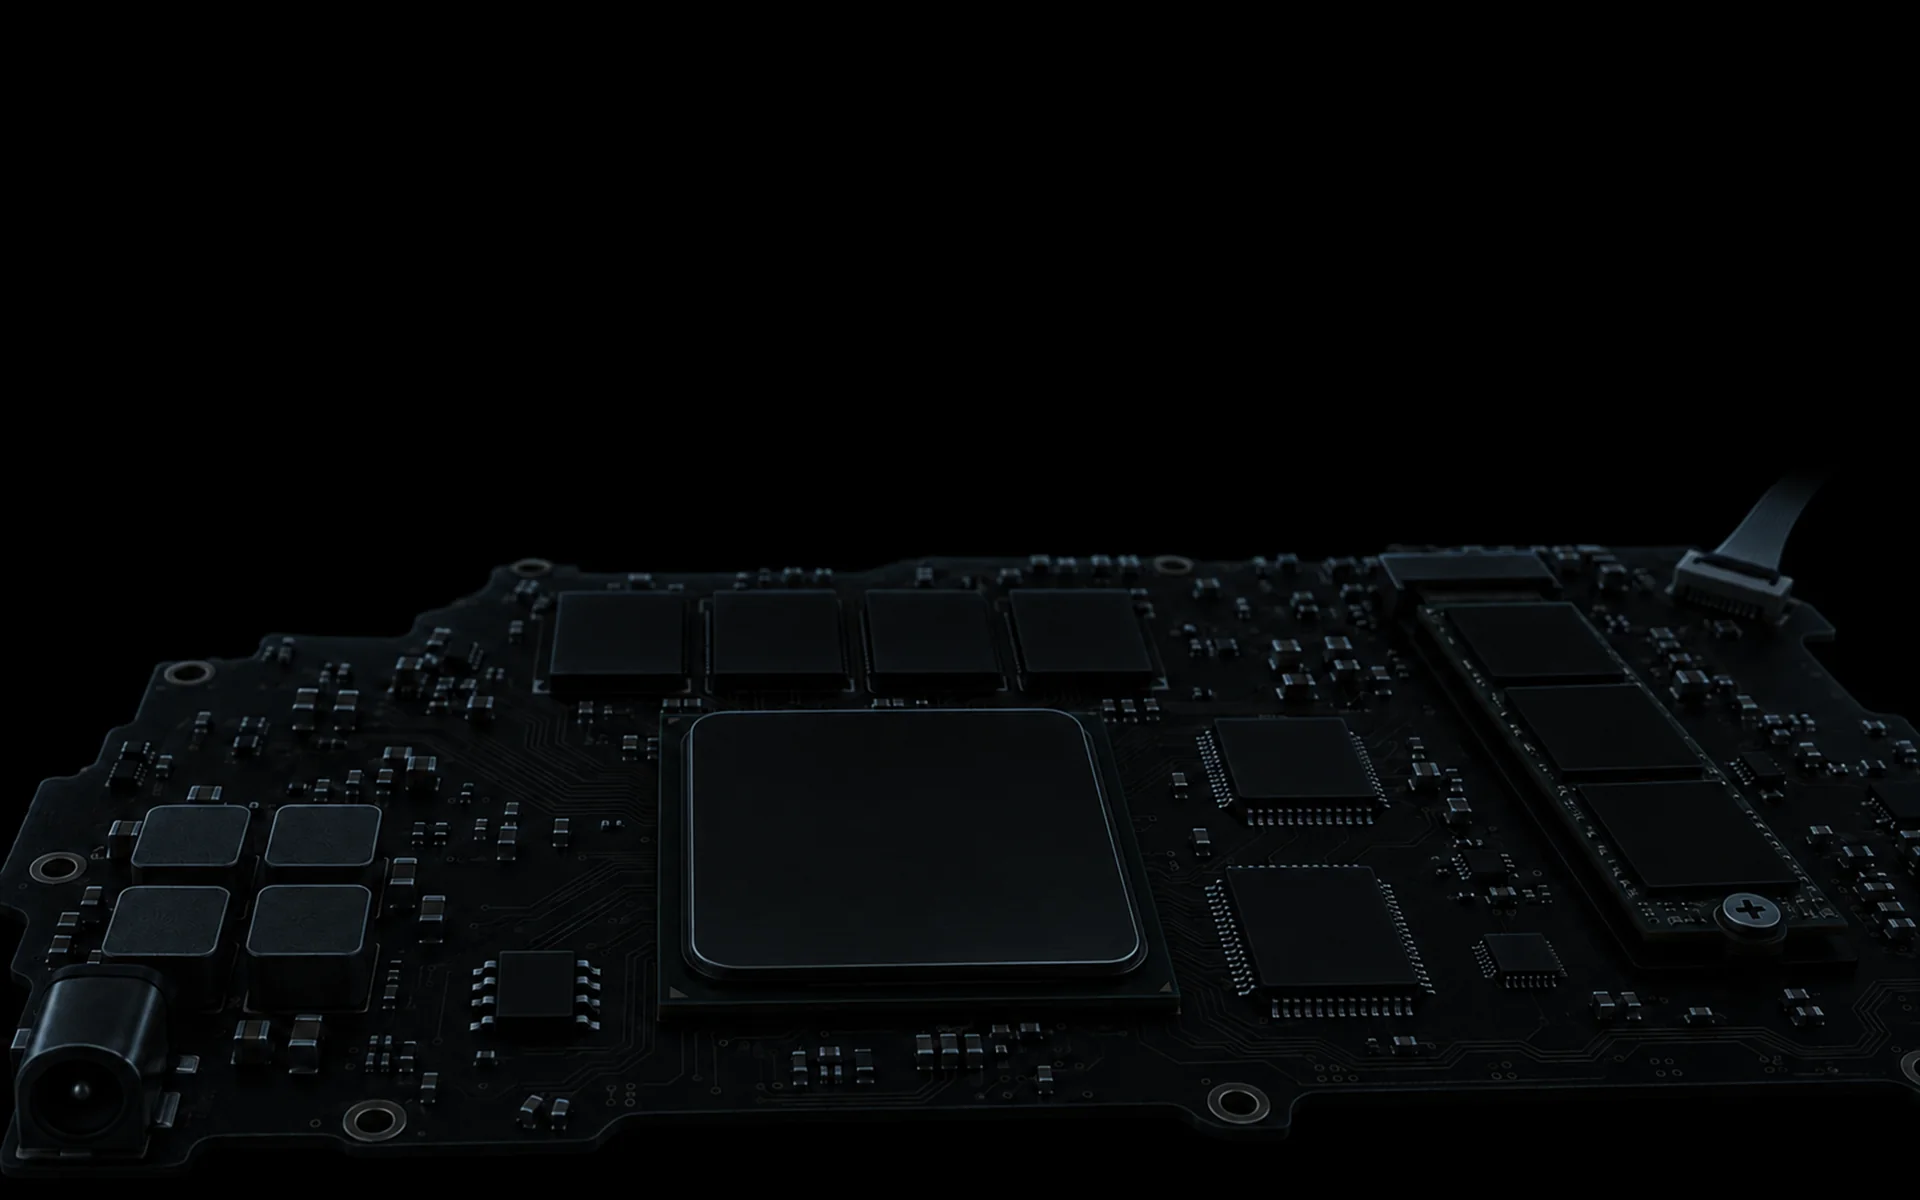
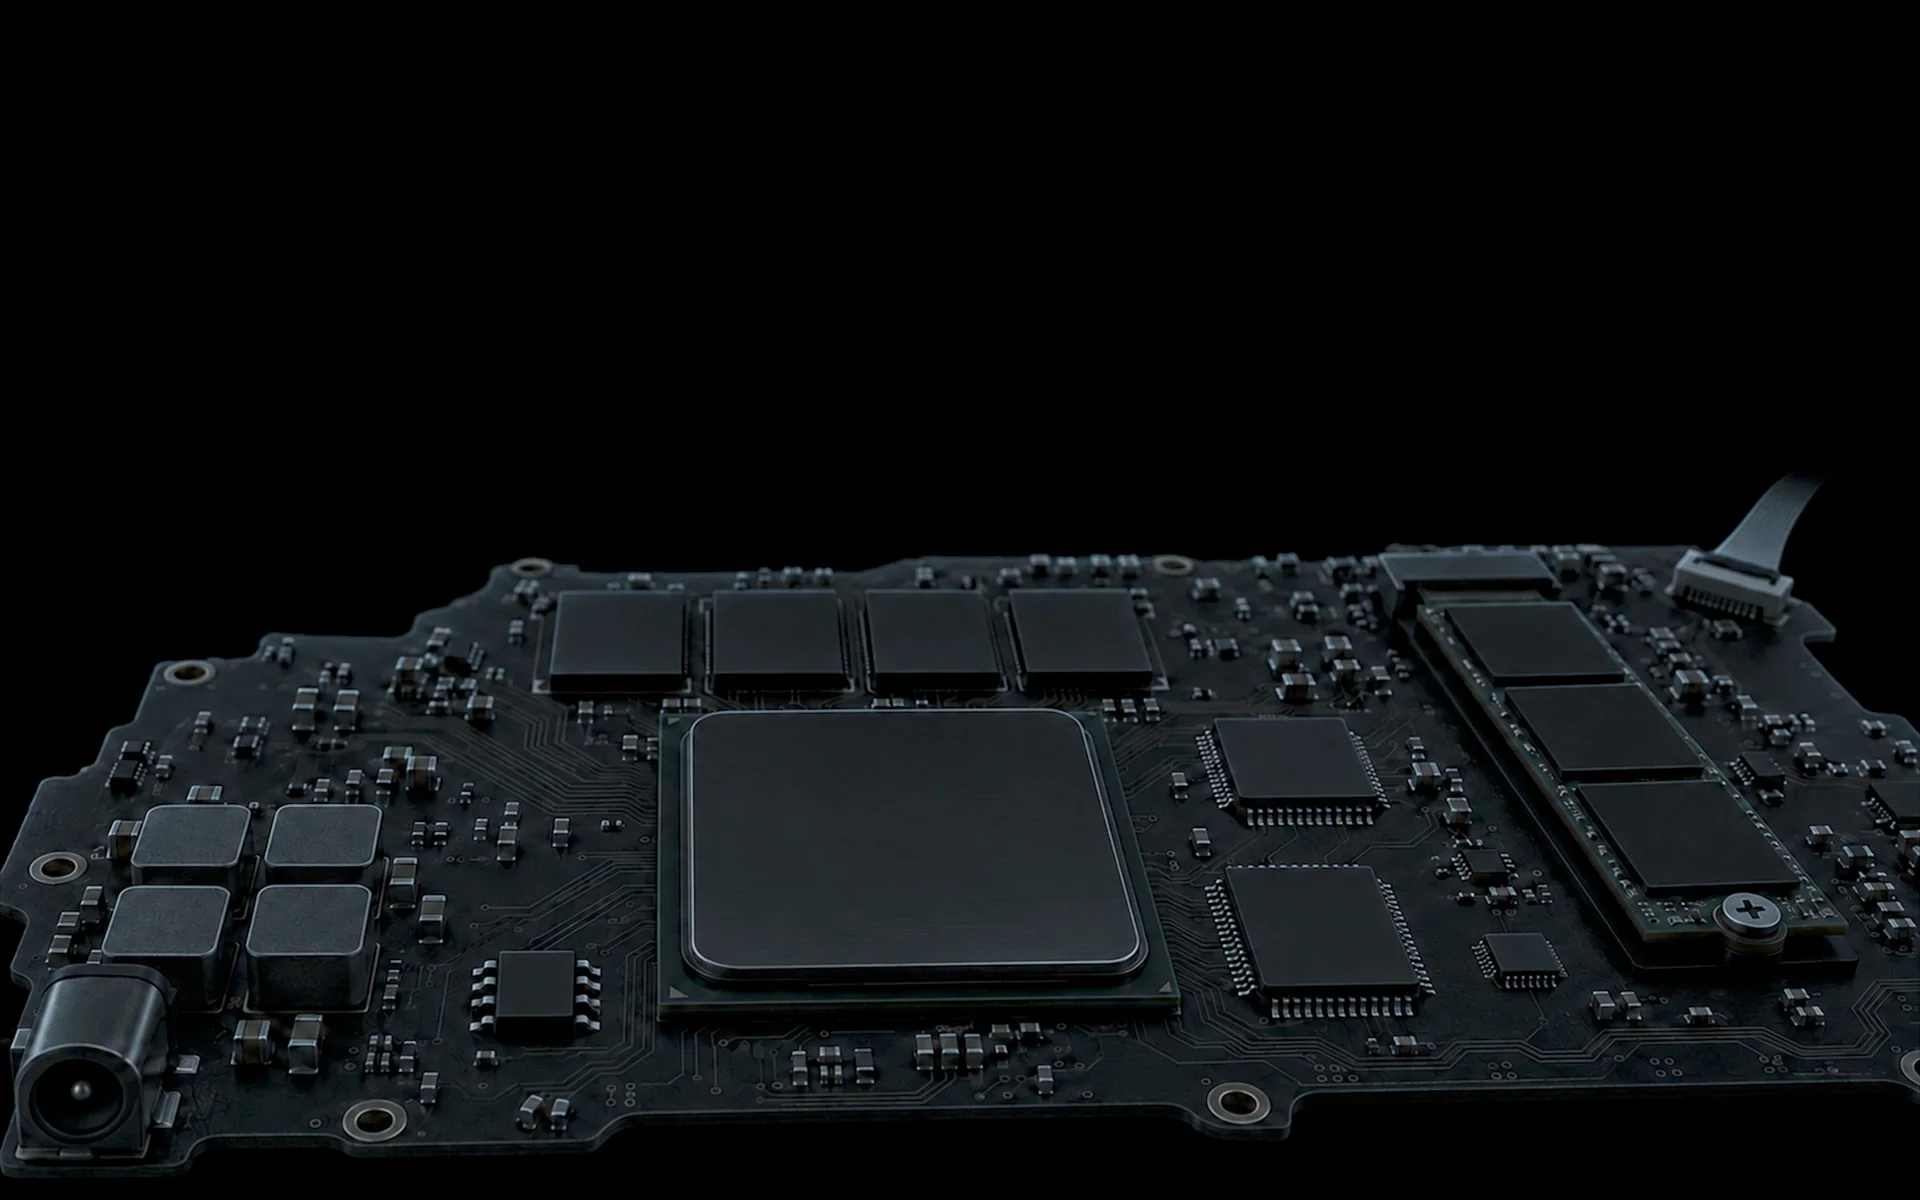
feat(site): lift the pictures of the machine before power so it reads as an object
The dark laptop and the dark board were close to the page's black. The asset
script now raises their midtones and lit edges and leaves the background
black; nothing warm is added, so the machine still reads as not powered.
Mean brightness of the machine in the source pictures: laptop 9.6 to 25.2,
board 10.1 to 26.9 (0 to 255). The script prints both.

Also adds the laptop's two later states, cut like the first, and a mask of
the whole board for the stop where every part is lit.

Changed region(s): [[0.0, 0.4008, 1.0, 0.9867]]

diff --git a/site/tools/make_assets.py b/site/tools/make_assets.py
@@ -3,11 +3,20 @@
 The source plates are 2400 x 1500 PNG files and are not kept in this
 repository. This script turns them into what the site ships:
 
-  src/assets/laptop-dark.webp    the laptop, cropped close, edges faded to black
+  src/assets/laptop-dark.webp    the laptop before power, cropped close, edges faded to black
+  src/assets/laptop-inside.webp  the same laptop with the inside awake and the screen black
+  src/assets/laptop-awake.webp   the same laptop with the screen lit
   src/assets/board-dark.webp     the board before power
   src/assets/board-awake.webp    the same board with every part lit
   src/assets/masks/<part>.webp   one soft mask per part of the board
+  src/assets/masks/whole.webp    one soft mask of the whole board, for the stop where every part is lit
   src/assets/parts.json          where each part lies on the board, as fractions of the plate
+
+The two pictures of the machine before power are lifted on the way: their
+midtones and lit edges are raised so the machine reads as an object on an
+ordinary screen in a lit room, while the background stays black and nothing
+looks switched on. The script prints the mean brightness of the machine
+before and after.
 
 A stop's picture is not a file. The page stacks board-awake over board-dark
 once per part, each copy cut out by that part's mask, and fades the copies in.
@@ -21,7 +30,7 @@ import json
 import sys
 from pathlib import Path
 
-from PIL import Image, ImageChops, ImageDraw, ImageFilter
+from PIL import Image, ImageChops, ImageDraw, ImageFilter, ImageStat
 
 PLATE = (2400, 1500)
 BOARD_OUT = (1920, 1200)
@@ -30,6 +39,17 @@ LAPTOP_BOX = (400, 250, 2000, 1450)
 LAPTOP_OUT = (1280, 960)
 MASK_OUT = (600, 375)
 FEATHER = 70  # in source pixels
+WHOLE_FEATHER = 160
+# The whole board, for the stop where every part is lit: the ground between the parts lights too.
+WHOLE = [(0, 660), (2400, 660), (2400, 1500), (0, 1500)]
+
+# How the two pictures of the machine before power are lifted. A level v (0 to 1) becomes gain * v ** gamma;
+# levels at or under `black` are left alone and the change is complete from `full` up, so the background
+# stays black. `box` is where the machine lies in the source picture, for the measurement.
+LIFT = {
+    "laptop-dark": {"gamma": 0.55, "gain": 1.05, "black": 4, "full": 14, "box": (480, 290, 1910, 1380)},
+    "board-dark": {"gamma": 0.62, "gain": 1.0, "black": 1.5, "full": 7, "box": (0, 660, 2400, 1500)},
+}
 
 # The parts of the board, as polygons in source pixels.
 REGIONS = {
@@ -53,6 +73,35 @@ def on_black(path: Path) -> Image.Image:
     return Image.alpha_composite(black, plate).convert("RGB")
 
 
+def lift(picture: Image.Image, gamma: float, gain: float, black: float, full: float) -> Image.Image:
+    """Raise midtones and lit edges, level by level, and leave what is black as it is."""
+    curve = []
+    for level in range(256):
+        t = min(1.0, max(0.0, (level - black) / (full - black)))
+        t = t * t * (3 - 2 * t)
+        raised = min(255.0, 255 * gain * (level / 255) ** gamma)
+        curve.append(round(level + (raised - level) * t))
+    return picture.point(curve * 3)
+
+
+def brightness(picture: Image.Image, box: tuple[int, int, int, int]) -> float:
+    """The mean brightness (0 to 255) of one region of a picture."""
+    return ImageStat.Stat(picture.crop(box).convert("L")).mean[0]
+
+
+def lifted(plates: Path, name: str) -> Image.Image:
+    """A picture of the machine before power, lifted, with its measurement printed."""
+    setting = dict(LIFT[name])
+    box = setting.pop("box")
+    before = on_black(plates / f"lux-{name}.png")
+    after = lift(before, **setting)
+    print(
+        f"{name}: mean brightness of the machine {brightness(before, box):.1f} -> {brightness(after, box):.1f}, "
+        f"background corner {brightness(before, (0, 0, 300, 150)):.2f} -> {brightness(after, (0, 0, 300, 150)):.2f}"
+    )
+    return after
+
+
 def edge_fade(size: tuple[int, int], margin: int) -> Image.Image:
     """White in the middle, falling to black over `margin` pixels at every edge."""
     w, h = size
@@ -61,11 +110,11 @@ def edge_fade(size: tuple[int, int], margin: int) -> Image.Image:
     return fade.filter(ImageFilter.GaussianBlur(margin / 2))
 
 
-def part_mask(polygon: list[tuple[int, int]]) -> Image.Image:
+def part_mask(polygon: list[tuple[int, int]], feather: int = FEATHER) -> Image.Image:
     """A feathered mask of one part. The shape is in the alpha channel, which is what a CSS mask reads."""
     shape = Image.new("L", PLATE, 0)
     ImageDraw.Draw(shape).polygon(polygon, fill=255)
-    soft = shape.filter(ImageFilter.GaussianBlur(FEATHER)).resize(MASK_OUT, Image.LANCZOS)
+    soft = shape.filter(ImageFilter.GaussianBlur(feather)).resize(MASK_OUT, Image.LANCZOS)
     mask = Image.new("RGBA", MASK_OUT, (255, 255, 255, 0))
     mask.putalpha(soft)
     return mask
@@ -78,16 +127,24 @@ def main() -> None:
     out = Path("src/assets")
     (out / "masks").mkdir(parents=True, exist_ok=True)
 
-    for name in ("board-dark", "board-awake"):
-        board = on_black(plates / f"lux-{name}.png").resize(BOARD_OUT, Image.LANCZOS)
-        board.save(out / f"{name}.webp", quality=84, method=6)
+    boards = {"board-dark": lifted(plates, "board-dark"), "board-awake": on_black(plates / "lux-board-awake.png")}
+    for name, board in boards.items():
+        board.resize(BOARD_OUT, Image.LANCZOS).save(out / f"{name}.webp", quality=84, method=6)
 
-    laptop = on_black(plates / "lux-laptop-dark.png").crop(LAPTOP_BOX).resize(LAPTOP_OUT, Image.LANCZOS)
+    # Three pictures of one laptop from one view, cut alike, so that one can fade into the next.
+    laptops = {
+        "laptop-dark": lifted(plates, "laptop-dark"),
+        "laptop-inside": on_black(plates / "lux-laptop-inside-awake.png"),
+        "laptop-awake": on_black(plates / "lux-laptop-awake.png"),
+    }
     fade = edge_fade(LAPTOP_OUT, 56).convert("RGB")
-    ImageChops.multiply(laptop, fade).save(out / "laptop-dark.webp", quality=86, method=6)
+    for name, laptop in laptops.items():
+        cut = laptop.crop(LAPTOP_BOX).resize(LAPTOP_OUT, Image.LANCZOS)
+        ImageChops.multiply(cut, fade).save(out / f"{name}.webp", quality=86, method=6)
 
     for part, polygon in REGIONS.items():
         part_mask(polygon).save(out / "masks" / f"{part}.webp", lossless=True, method=6)
+    part_mask(WHOLE, WHOLE_FEATHER).save(out / "masks" / "whole.webp", lossless=True, method=6)
 
     # Where each part lies, so the page can keep the parts a step lights in view on a narrow window.
     boxes = {}
